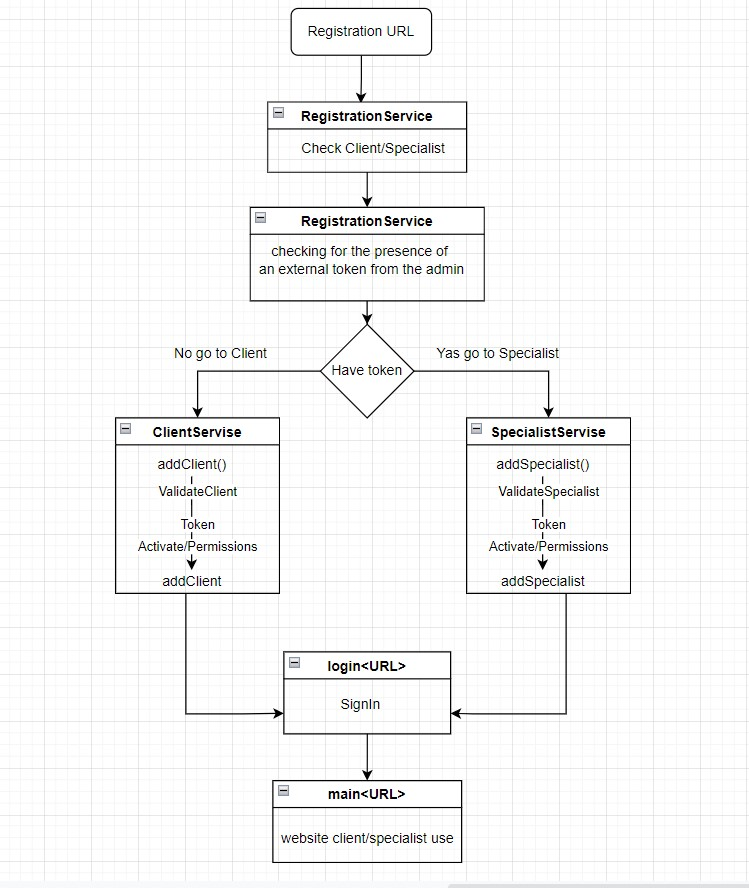
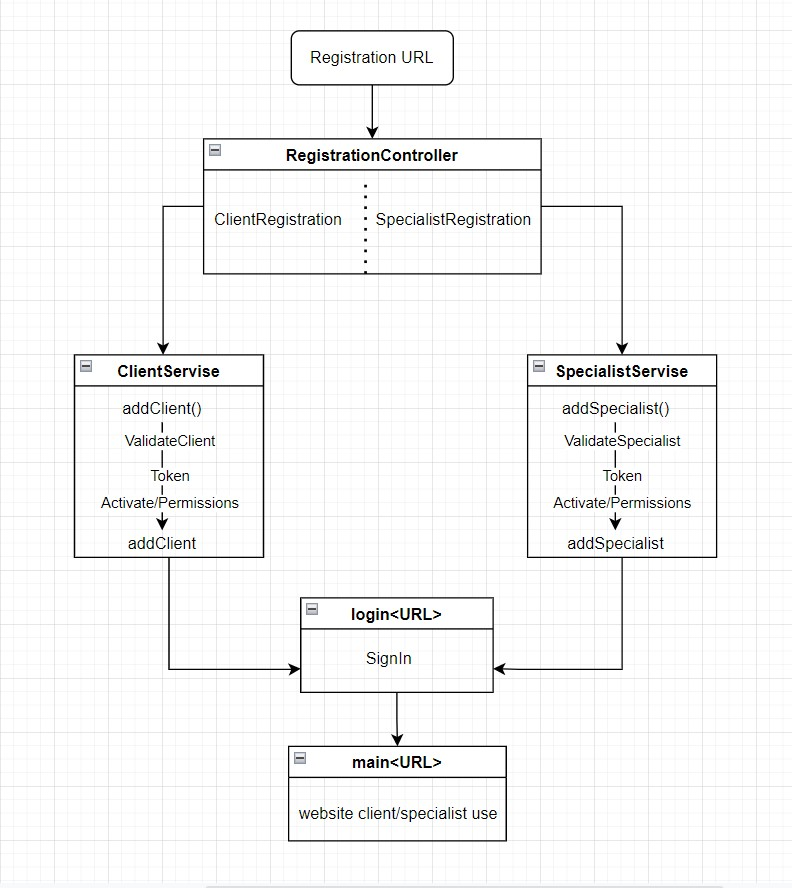
unblocked mailSender + .properties,  add logic of registration ,  change logic registration.drewio

diff --git a/src/main/java/com/example/Nail_studio/registration/RegistrationClientService.java b/src/main/java/com/example/Nail_studio/registration/RegistrationClientService.java
@@ -1,0 +1,63 @@
+package com.example.Nail_studio.registration;
+
+import com.example.Nail_studio.client.Client;
+import com.example.Nail_studio.client.ClientRepository;
+import com.example.Nail_studio.mail.MailSenderService;
+import com.example.Nail_studio.role.Role;
+import lombok.AllArgsConstructor;
+import org.springframework.stereotype.Service;
+import java.util.UUID;
+
+@AllArgsConstructor
+@Service
+public class RegistrationClientService {
+
+    private ClientRepository clientRepository;
+    private MailSenderService mailSenderService;
+
+
+    /**
+     * @param client
+     *        response from view @RegistrationController
+     *
+     * @return  {@code true} -  adding client successful, {@code false} -  adding client abort
+     *
+     * @version  1.0
+     */
+    public boolean addClient(Client client) {
+        Client clientFromDb = clientRepository.findByEmail(client.getEmail());
+        if (clientFromDb != null)
+            return false;
+
+        client.setActive(false);
+        client.setRole(Role.CLIENT);
+        client.setActivationCode(UUID.randomUUID().toString());
+        clientRepository.save(client);
+
+        String message = String.format("Hello %s  \n" +
+                "go to link: http://localhost:8081/activate/%s",
+                client.getFirstName(),
+                client.getActivationCode());
+        mailSenderService.send(client.getEmail(), "Activation code", message);
+        return true;
+    }
+
+    /**
+     * @param activationCode
+     *        {@code URL} reference from mail message
+     * @return {@code true} -  client activation successful,  {@code false} -  client activation abort
+     *
+     * @version  1.0
+     */
+    public boolean activateClient(String activationCode) {
+        Client client = clientRepository.findByActivationCode(activationCode);
+
+        if (client == null)
+            return false;
+
+        client.setActivationCode(null);
+        client.setActive(true);
+        clientRepository.save(client);
+        return true;
+    }
+}

diff --git a/src/main/java/com/example/Nail_studio/registration/RegistrationController.java b/src/main/java/com/example/Nail_studio/registration/RegistrationController.java
@@ -1,0 +1,26 @@
+package com.example.Nail_studio.registration;
+
+import com.example.Nail_studio.client.Client;
+import lombok.AllArgsConstructor;
+import org.springframework.stereotype.Controller;
+import org.springframework.ui.Model;
+import org.springframework.web.bind.annotation.GetMapping;
+import org.springframework.web.bind.annotation.PostMapping;
+
+@AllArgsConstructor
+@Controller
+public class RegistrationController {
+
+    private RegistrationClientService registrationClientService;
+
+    @GetMapping("/registration")
+    public String registration(Model model){
+        return "registration";      // TODO: 12/17/2022 create registration view file html
+    }
+    
+    @PostMapping("/registrationClient")
+    public String registrationClient(Client client, Model model){
+        registrationClientService.addClient(client);
+        return "registration/registrationClient";   // TODO: 12/17/2022 make same view registration for client and specialist or individually
+    }
+}

diff --git a/src/main/java/com/example/Nail_studio/client/Client.java b/src/main/java/com/example/Nail_studio/client/Client.java
@@ -56,6 +56,12 @@ public class Client {
             nullable = false)
     private Role role;
 
+    @Column(name = "activation_code",
+            nullable = true,
+            columnDefinition = "TEXT")
+    private String activationCode;
+
+    private Boolean active;
 
     @OneToMany(mappedBy = "client",
             cascade = CascadeType.ALL/*{CascadeType.PERSIST, CascadeType.REMOVE, CascadeType.REFRESH}*/,
@@ -84,6 +90,14 @@ public class Client {
             this.order.remove(order);
             order.setClient(null);
         }
+    }
+
+    public Boolean isActive(Boolean active){
+        return active;
+    }
+
+    public void setActive(Boolean active) {
+        this.active = active;
     }
 
     @Override

diff --git a/src/main/java/com/example/Nail_studio/registration/RegistrationSpecialistService.java b/src/main/java/com/example/Nail_studio/registration/RegistrationSpecialistService.java
@@ -1,10 +1,9 @@
-package com.example.Nail_studio.branchoffice.registration;
+package com.example.Nail_studio.registration;
 
 import lombok.AllArgsConstructor;
 import org.springframework.stereotype.Service;
 
-
 @AllArgsConstructor
 @Service
-public class RegistrationClientService {
+public class RegistrationSpecialistService {
 }

diff --git a/src/main/java/com/example/Nail_studio/client/ClientRepository.java b/src/main/java/com/example/Nail_studio/client/ClientRepository.java
@@ -5,4 +5,8 @@ import org.springframework.stereotype.Repository;
 
 @Repository
 public interface ClientRepository extends JpaRepository<Client, Long> {
+
+    Client findByEmail(String email);
+
+    Client findByActivationCode(String activationCode);
 }

diff --git a/src/main/java/com/example/Nail_studio/mail/MailSenderService.java b/src/main/java/com/example/Nail_studio/mail/MailSenderService.java
@@ -1,4 +1,3 @@
-/*
 package com.example.Nail_studio.mail;
 
 import lombok.AllArgsConstructor;
@@ -44,4 +43,4 @@ public class MailSenderService implements MailSender{
         }
     }
 }
-*/
+

diff --git a/src/main/java/com/example/Nail_studio/mail/MailInfo.java b/src/main/java/com/example/Nail_studio/mail/MailInfo.java
@@ -1,4 +1,3 @@
-/*
 package com.example.Nail_studio.mail;
 
 import lombok.Getter;
@@ -19,4 +18,3 @@ public class MailInfo {
     private String protocol;
     private String debug;
 }
-*/

diff --git a/src/main/java/com/example/Nail_studio/mail/MailSender.java b/src/main/java/com/example/Nail_studio/mail/MailSender.java
@@ -1,7 +1,6 @@
-/*
 package com.example.Nail_studio.mail;
 
 public interface MailSender {
     void send(String to, String subject, String text);
 }
-*/
+
